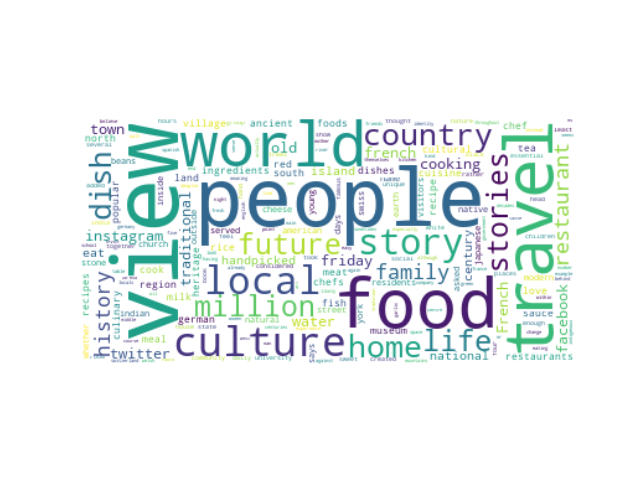
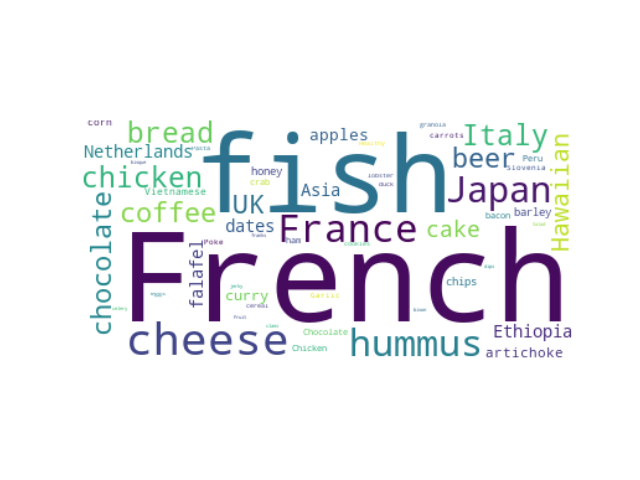
updates

Changed region(s): [[0.125, 0.25, 0.9062, 0.7812]]

diff --git a/BBC_and_NYT/BBC_and_NYTimes_analyzer.py b/BBC_and_NYT/BBC_and_NYTimes_analyzer.py
@@ -100,9 +100,9 @@ def sort_data(data, output):
 
 def freq_counter():
     make_files_list('.txt')
-    print(len(list_of_files))
     words = []
     words_count = []
+    make_stop_words_list()
     for i in range(len(list_of_files)):
         print(list_of_files[i])
         with open(list_of_files[i]) as text:
@@ -113,7 +113,7 @@ def freq_counter():
                     count += 1
                     word = replace_characters(word)
                     word = word.lower()
-                    if word not in words:
+                    if word not in words and word not in stop_words_list:
                         words.append(word)
                         words_count.append([word, 1])
                     else:
@@ -239,4 +239,7 @@ def make_wordcloud(file):
 #identify_keywords()
 #tfidf()
 #make_wordcloud('keywords_freq_count.csv')
-#make_wordcloud('sorted_keyword_totals.csv')
+make_wordcloud('sorted_keyword_totals.csv')
+#make_files_list('.txt')
+#print(len(list_of_files))
+#freq_counter()

diff --git a/BBC_and_NYT/NYTimes_scraper.py b/BBC_and_NYT/NYTimes_scraper.py
@@ -12,8 +12,6 @@ import os
     First we will scrape NYTimes Travel, then we will scrape NYTimes Food.
     
     First search will be by 'food'.
-
-    Reference: https://dlab.berkeley.edu/blog/scraping-new-york-times-articles-python-tutorial
 '''
 ''' Uses article search API to search articles that are in the Food news desk, since Jan 1 2016, from The New York Times,
     searches for the keyword italian. Loops through 0-50 to get 500 articles, ie. offset = 0 yields top 10 articles, 
@@ -97,4 +95,4 @@ def main():
         print(list_of_text_file_names[i])
         find_keywords(list_of_text_file_names[i], list_of_text_file_names[i][:len(list_of_text_file_names[i]) - 4])
 
-main()
+#main()

diff --git a/BBC_and_NYT/BBC_scraper.py b/BBC_and_NYT/BBC_scraper.py
@@ -13,8 +13,6 @@ import requests
 
     Parse the text file counting keywords for both Travel and Food. Create .csv file with counters for each
     keyword in keywords.txt.
-
-    Reference: http://jonathansoma.com/lede/foundations-2017/classes/adv-scraping/scraping-bbc/
 '''
 data_list = [[]]
 with open('BBC_urls.txt', 'r') as urls_txt:
